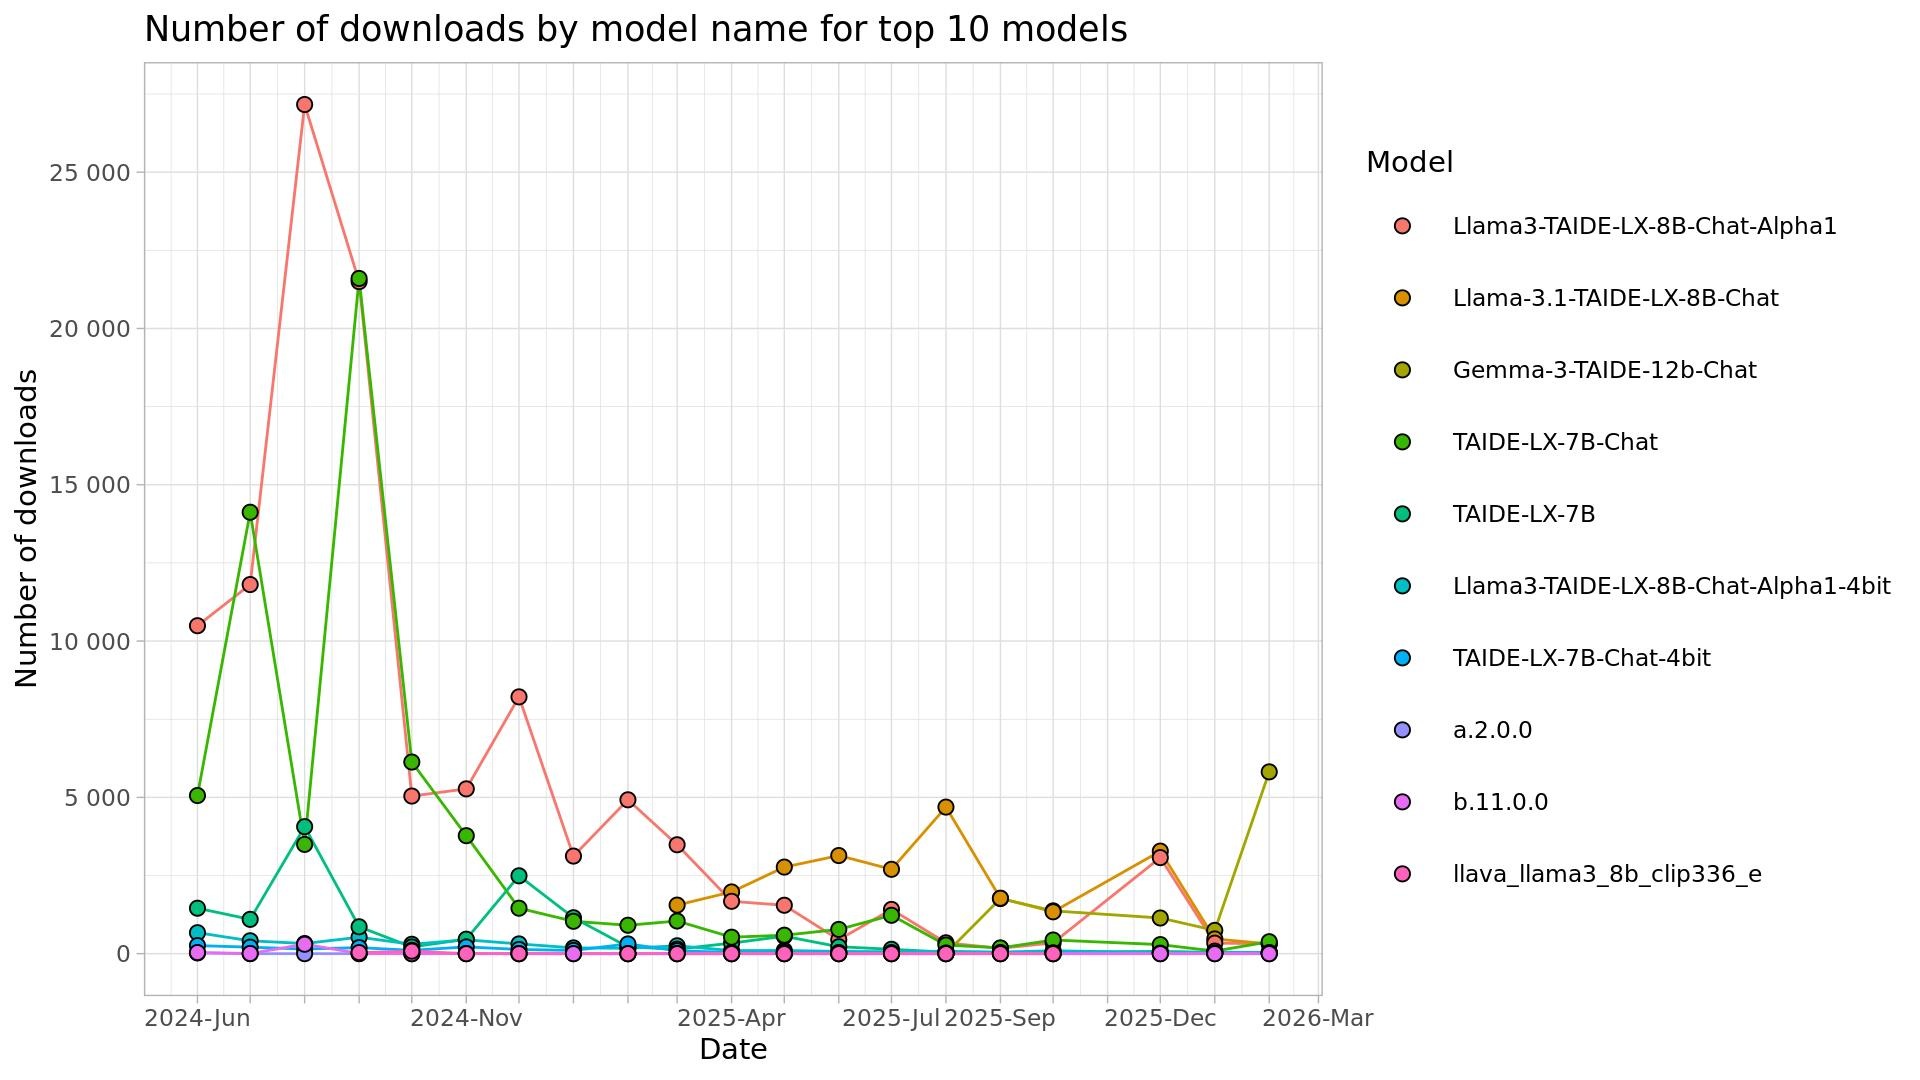
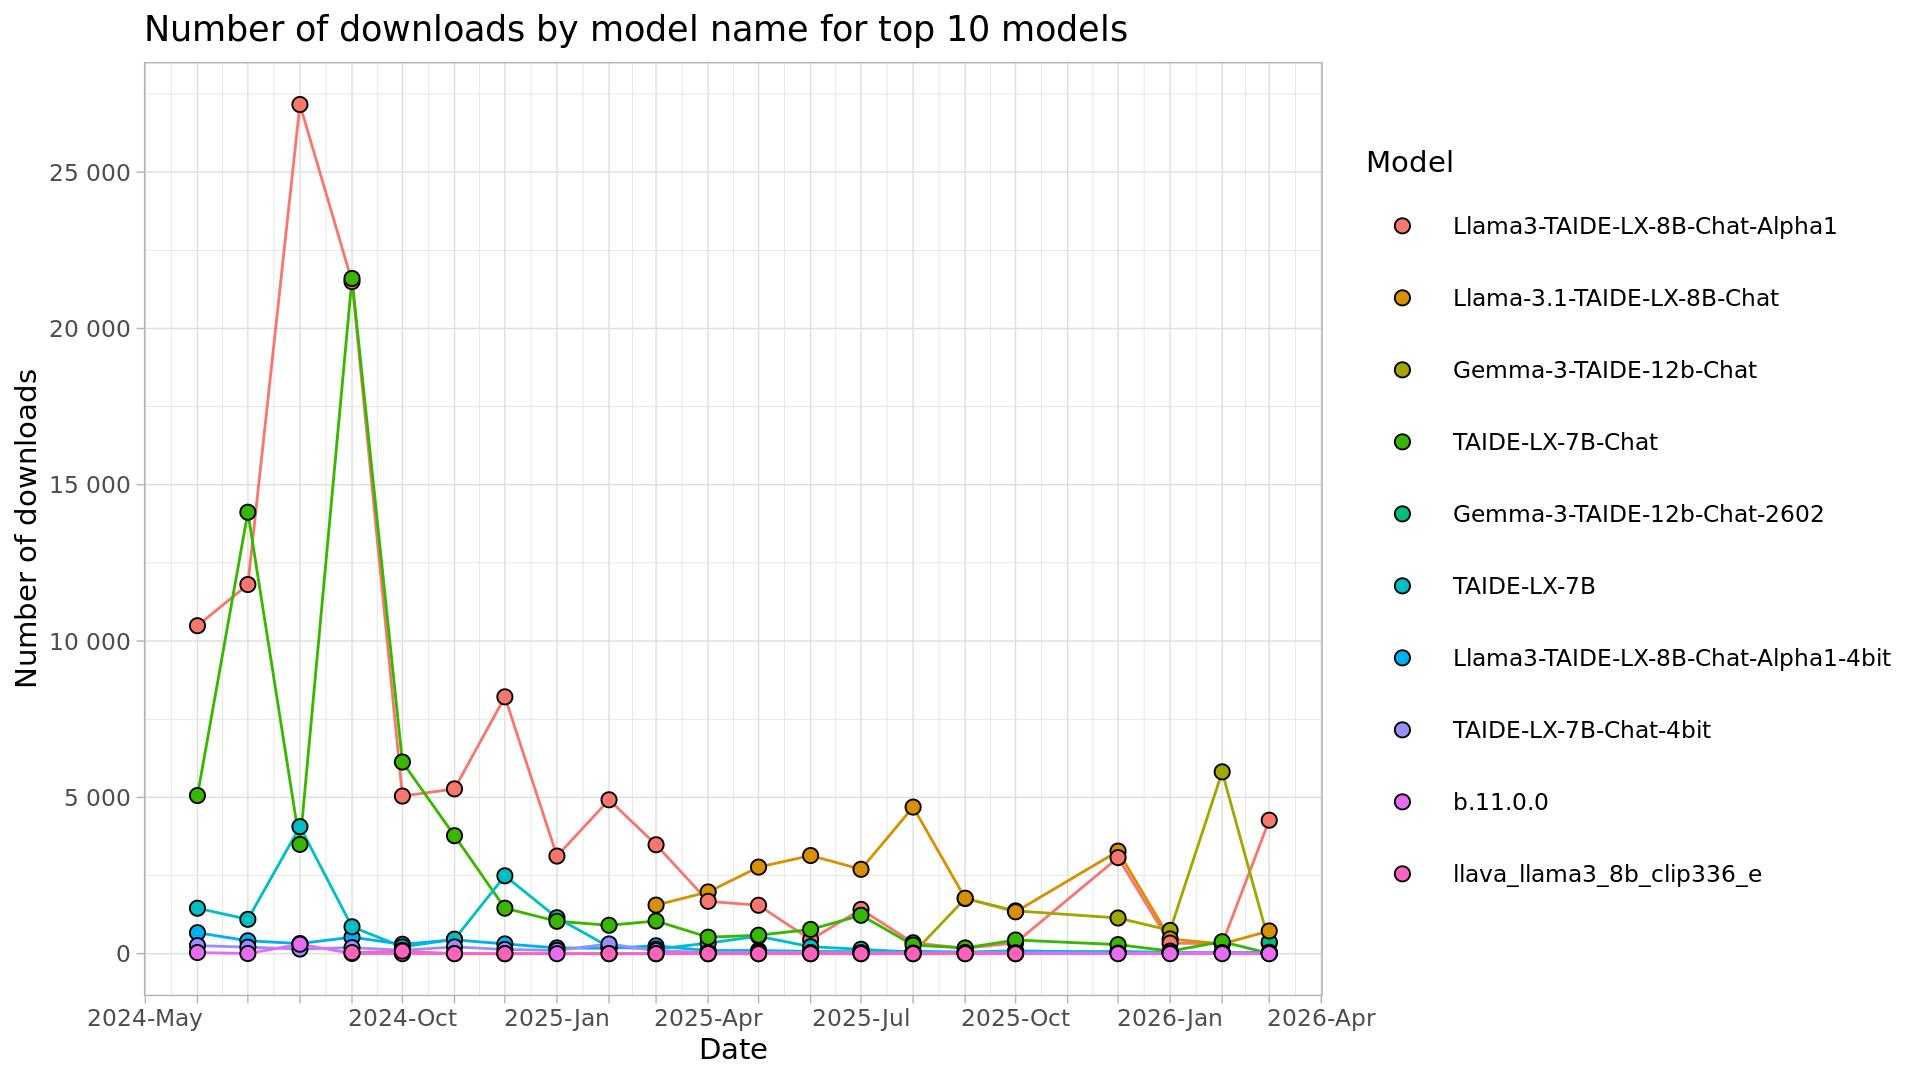
update

diff --git a/README.md b/README.md
@@ -11,17 +11,18 @@ Script is run monthly, and a monthly `csv`-file outputted to `/data` folder.
 !["Huggingface downloads by model plot."](https://github.com/nctu6/huggingface_stats/blob/main/plots/downloads_by_model.jpg)
 
 ## Table of downloads
-|model_name                          | downloadsAllTime| 2026-02| 2026-01| 2025-12| 2025-10| 2025-09| 2025-08| 2025-07| 2025-06| 2025-05| 2025-04| 2025-03| 2025-02| 2025-01| 2024-12| 2024-11| 2024-10| 2024-09| 2024-08| 2024-07| 2024-06|
-|:-----------------------------------|----------------:|-------:|-------:|-------:|-------:|-------:|-------:|-------:|-------:|-------:|-------:|-------:|-------:|-------:|-------:|-------:|-------:|-------:|-------:|-------:|-------:|
-|Llama3-TAIDE-LX-8B-Chat-Alpha1      |           110699|     319|     337|    3073|     346|     171|     348|    1416|     446|    1549|    1675|    3484|    4922|    3122|    8215|    5272|    5042|   21499|   27164|   11808|   10491|
-|TAIDE-LX-7B-Chat                    |            63399|     383|      82|     290|     437|     184|     276|    1228|     776|     591|     527|    1045|     909|    1036|    1455|    3774|    6130|   21600|    3495|   14122|    5059|
-|Llama-3.1-TAIDE-LX-8B-Chat          |            24004|     313|     471|    3281|    1339|    1774|    4689|    2699|    3139|    2770|    1975|    1554|       0|       0|       0|       0|       0|       0|       0|       0|       0|
-|TAIDE-LX-7B                         |            13668|      26|      39|      73|      42|      27|      48|     141|     222|     558|     338|     145|     215|    1150|    2491|     463|     215|     860|    4063|    1098|    1454|
-|Gemma-3-TAIDE-12b-Chat              |            10844|    5816|     745|    1141|    1369|    1763|      10|       0|       0|       0|       0|       0|       0|       0|       0|       0|       0|       0|       0|       0|       0|
-|Llama3-TAIDE-LX-8B-Chat-Alpha1-4bit |             4260|      40|      28|      37|      92|      51|      76|      63|      72|     102|      99|     252|     172|     185|     312|     444|     301|     527|     324|     412|     671|
-|TAIDE-LX-7B-Chat-4bit               |             2093|      36|      24|      18|      29|      37|      22|      34|      39|      40|      37|      94|     311|     104|     135|     217|     107|     194|     148|     208|     259|
-|b.11.0.0                            |              355|       0|       0|       0|       0|       0|       0|       0|       0|       0|       0|       0|       0|       0|       0|       5|       0|       7|     302|       5|      36|
-|llava_llama3_8b_clip336_e           |              115|       0|       0|       0|       0|       0|       0|       0|       0|       0|       0|       0|       0|       0|       0|       0|      81|      34|       0|       0|       0|
-|a.2.0.0                             |               24|       0|       0|       0|       0|       0|       0|       0|       0|       0|       0|       0|       0|       0|       0|       0|       0|       0|       0|       0|      24|
-|e.1.1.0                             |               19|       0|       0|       0|       0|       0|       0|       0|       0|       0|       0|       0|       0|       0|       0|       0|       0|       0|       5|       0|      14|
-|b.1.0.0                             |               15|       0|       0|       0|       0|       0|       0|       0|       0|       0|       0|       0|       0|       0|       0|       0|       0|       0|       0|      15|       0|
+|model_name                          | downloadsAllTime| 2026-03| 2026-02| 2026-01| 2025-12| 2025-10| 2025-09| 2025-08| 2025-07| 2025-06| 2025-05| 2025-04| 2025-03| 2025-02| 2025-01| 2024-12| 2024-11| 2024-10| 2024-09| 2024-08| 2024-07| 2024-06|
+|:-----------------------------------|----------------:|-------:|-------:|-------:|-------:|-------:|-------:|-------:|-------:|-------:|-------:|-------:|-------:|-------:|-------:|-------:|-------:|-------:|-------:|-------:|-------:|-------:|
+|Llama3-TAIDE-LX-8B-Chat-Alpha1      |           114969|    4270|     319|     337|    3073|     346|     171|     348|    1416|     446|    1549|    1675|    3484|    4922|    3122|    8215|    5272|    5042|   21499|   27164|   11808|   10491|
+|TAIDE-LX-7B-Chat                    |            63407|       8|     383|      82|     290|     437|     184|     276|    1228|     776|     591|     527|    1045|     909|    1036|    1455|    3774|    6130|   21600|    3495|   14122|    5059|
+|Llama-3.1-TAIDE-LX-8B-Chat          |            24732|     728|     313|     471|    3281|    1339|    1774|    4689|    2699|    3139|    2770|    1975|    1554|       0|       0|       0|       0|       0|       0|       0|       0|       0|
+|TAIDE-LX-7B                         |            13713|      45|      26|      39|      73|      42|      27|      48|     141|     222|     558|     338|     145|     215|    1150|    2491|     463|     215|     860|    4063|    1098|    1454|
+|Gemma-3-TAIDE-12b-Chat              |            11184|     340|    5816|     745|    1141|    1369|    1763|      10|       0|       0|       0|       0|       0|       0|       0|       0|       0|       0|       0|       0|       0|       0|
+|Llama3-TAIDE-LX-8B-Chat-Alpha1-4bit |             4282|      22|      40|      28|      37|      92|      51|      76|      63|      72|     102|      99|     252|     172|     185|     312|     444|     301|     527|     324|     412|     671|
+|TAIDE-LX-7B-Chat-4bit               |             2110|      17|      36|      24|      18|      29|      37|      22|      34|      39|      40|      37|      94|     311|     104|     135|     217|     107|     194|     148|     208|     259|
+|Gemma-3-TAIDE-12b-Chat-2602         |              372|     372|       0|       0|       0|       0|       0|       0|       0|       0|       0|       0|       0|       0|       0|       0|       0|       0|       0|       0|       0|       0|
+|b.11.0.0                            |              355|       0|       0|       0|       0|       0|       0|       0|       0|       0|       0|       0|       0|       0|       0|       0|       5|       0|       7|     302|       5|      36|
+|llava_llama3_8b_clip336_e           |              115|       0|       0|       0|       0|       0|       0|       0|       0|       0|       0|       0|       0|       0|       0|       0|       0|      81|      34|       0|       0|       0|
+|a.2.0.0                             |               24|       0|       0|       0|       0|       0|       0|       0|       0|       0|       0|       0|       0|       0|       0|       0|       0|       0|       0|       0|       0|      24|
+|e.1.1.0                             |               19|       0|       0|       0|       0|       0|       0|       0|       0|       0|       0|       0|       0|       0|       0|       0|       0|       0|       0|       5|       0|      14|
+|b.1.0.0                             |               15|       0|       0|       0|       0|       0|       0|       0|       0|       0|       0|       0|       0|       0|       0|       0|       0|       0|       0|       0|      15|       0|
